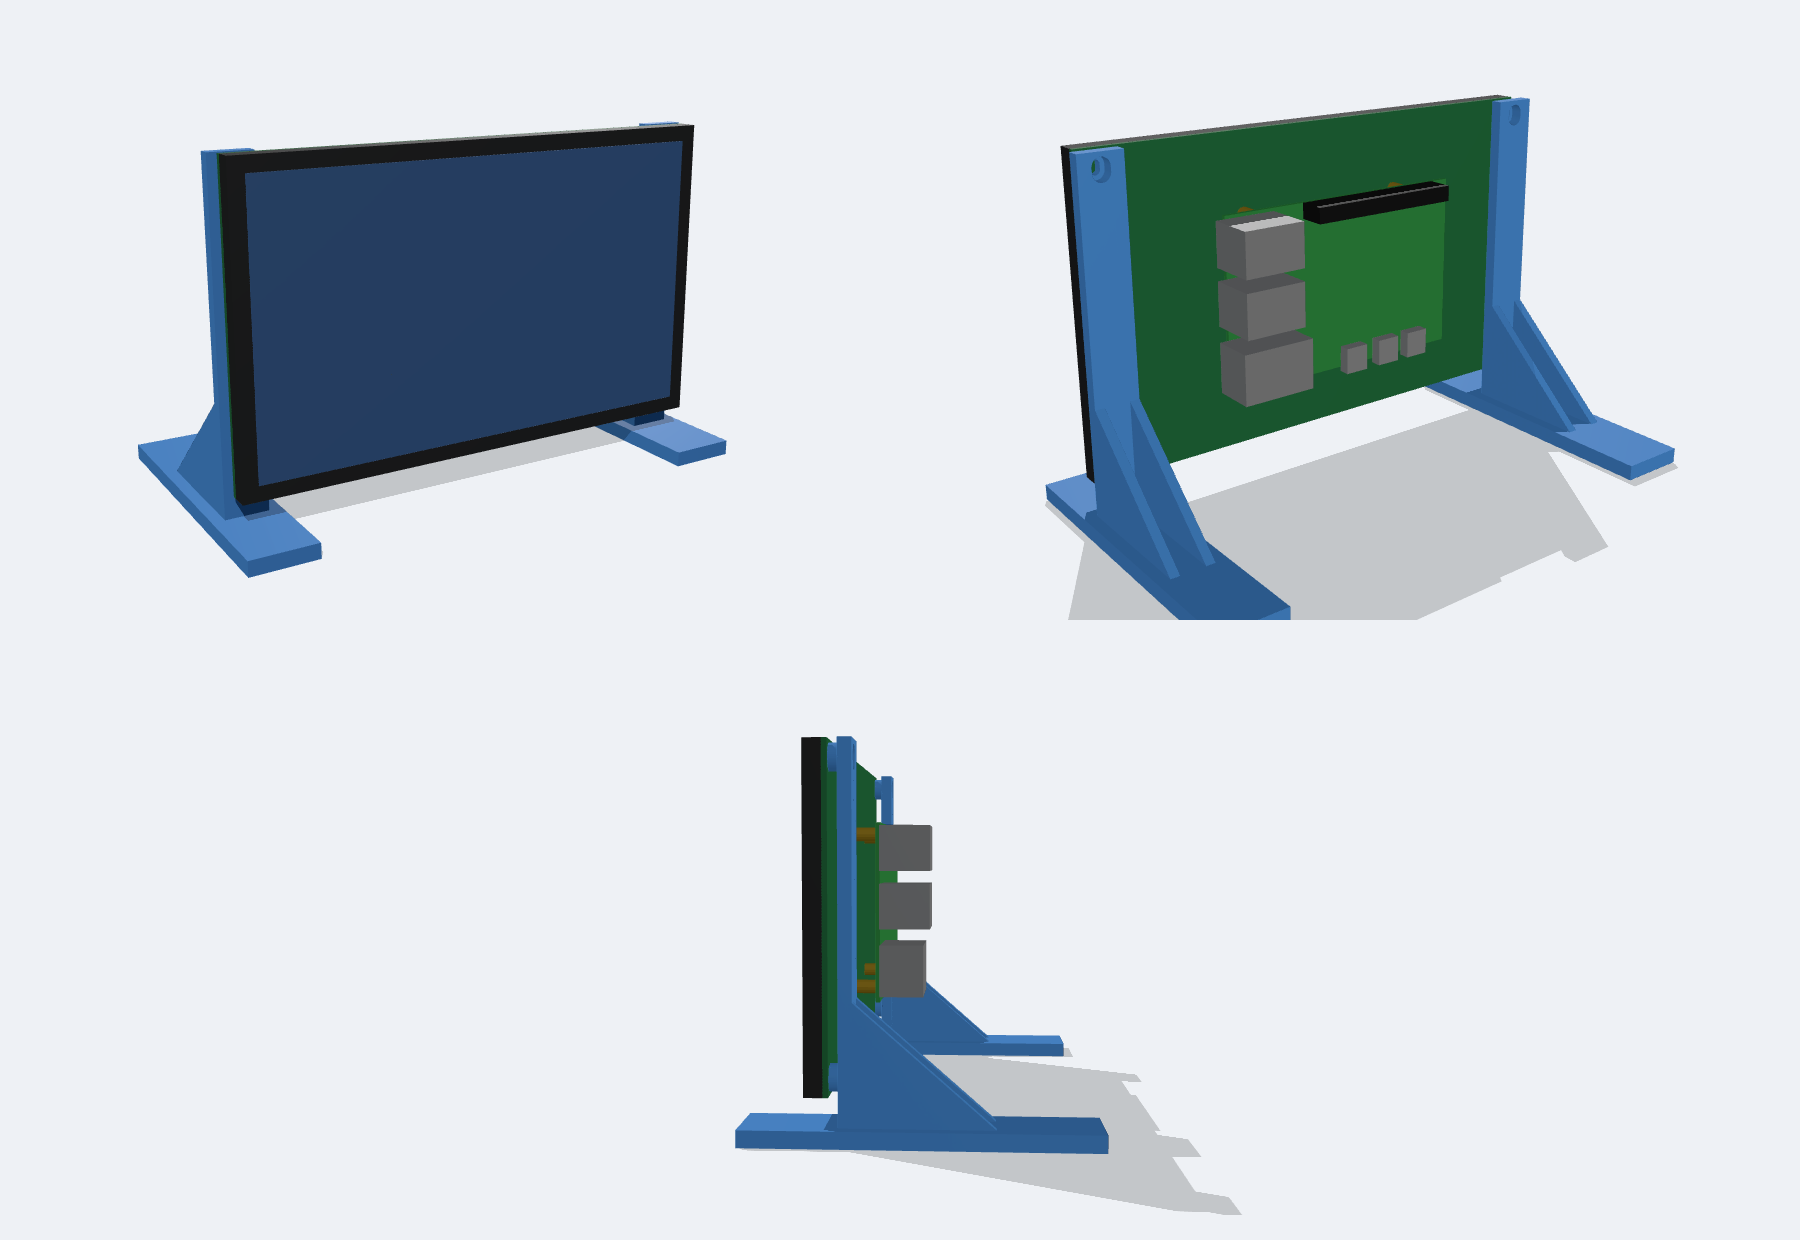
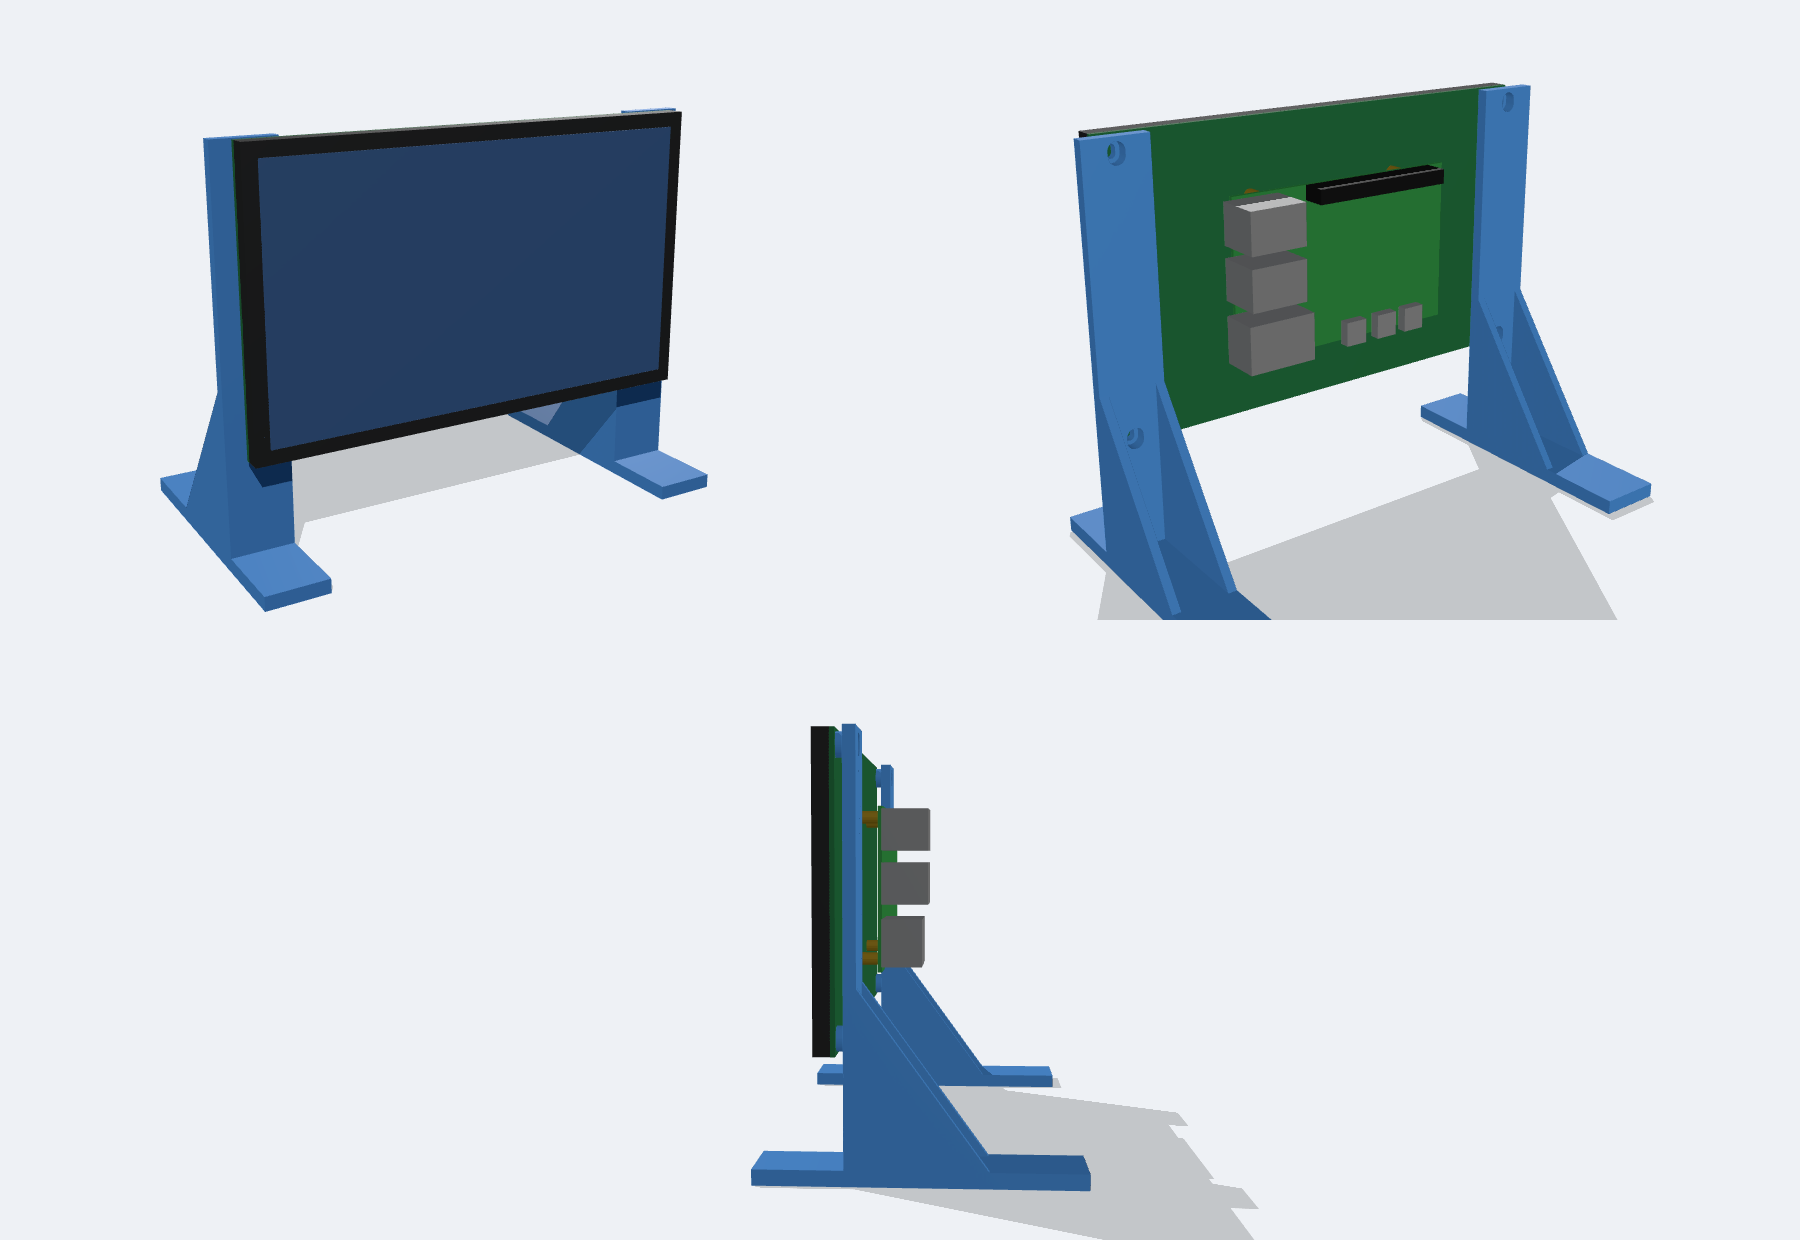
7in DSI stand: full-width uprights for side printing, raise screen 1 inch
Upright width now matches the 22 mm foot so foot, upright and gussets
share one flat side face. Board clearance raised from 8 to 33.4 mm and
gussets made taller (60 mm) to suit.

Claude-Session: https://claude.ai/code/session_01TJsV4F5sAibBUdXthBxiCR

Changed region(s): [[0.56, 0.0613, 0.9333, 0.521], [0.0622, 0.0613, 0.4044, 0.4903], [0.4044, 0.5823, 0.7156, 1.0]]

diff --git a/3d/dfrobot-7in-stand/README.md b/3d/dfrobot-7in-stand/README.md
@@ -6,6 +6,6 @@ M2.5 holes on one side of the board (155 × 90 mm hole pattern, 5 mm in from the
 
 - Screws: the supplied M2.5×6 screws, or M2.5×8 if the holes are deep enough. Holes are counterbored from behind so a 6 mm screw grips 3 mm. They are slotted 1.5 mm vertically for tolerance (`slot`).
 - Bosses (3 mm) hold the upright away from components on the back of the board.
-- The board's bottom edge sits 13 mm above the table. The foot reaches 70 mm behind the board and 25 mm under the screen.
-- Print it lying on its side (the 22 mm-wide face flat on the bed), so the upright isn't made of layers that can split. Use PLA or PETG, 3–4 walls, 25 % infill. It needs no supports.
+- The board's bottom edge sits 38 mm (1.5 in) above the table. The foot reaches 70 mm behind the board and 25 mm under the screen.
+- Print it lying on its side (the flat 22 mm side face on the bed — the upright, foot and gusset are all flush on that face), so the upright isn't made of layers that can split. Use PLA or PETG, 3–4 walls, 25 % infill. It needs no supports.
 - Before printing, measure the hole spacing with calipers. If it differs, change `hole_spacing_v` / `hole_edge_offset` in `dsi_l_bracket.scad` and re-export from OpenSCAD.
